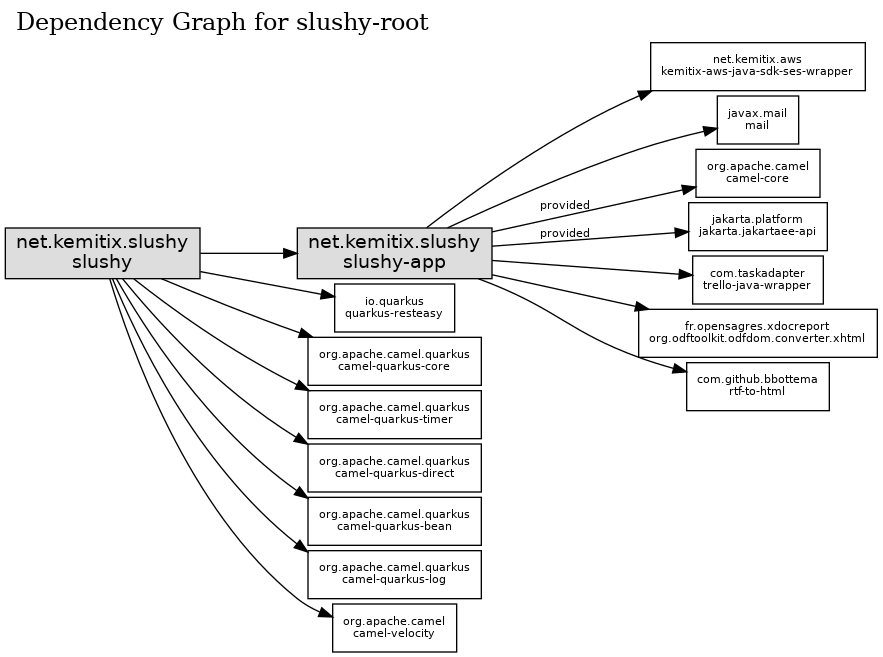
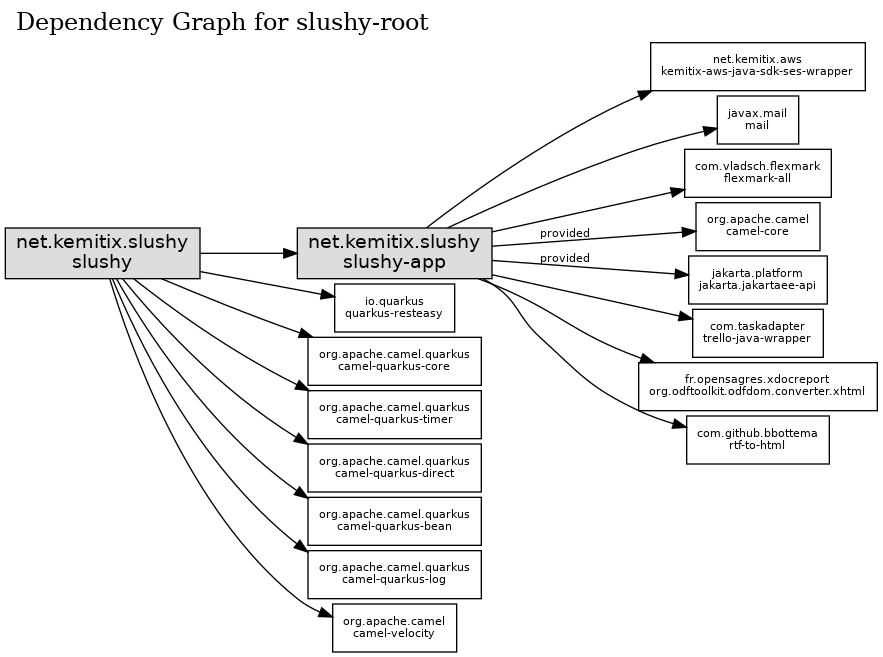
Add support for converting markdown attachments (#71)
* Add dependency flexmark-all 0.62.2

* Clean up pom

* Bump kemitix-maven-tiles from 2.9.0 to 2.10.0

* Update latest JDK test build from 14 to 15

* Add Markdown support

* Clean up HTML from RTF conversion

diff --git a/slushy-app/src/main/java/net/kemitix/slushy/app/fileconversion/MarkdownToHtmlConverter.java b/slushy-app/src/main/java/net/kemitix/slushy/app/fileconversion/MarkdownToHtmlConverter.java
@@ -1,0 +1,64 @@
+package net.kemitix.slushy.app.fileconversion;
+
+import com.vladsch.flexmark.html.HtmlRenderer;
+import com.vladsch.flexmark.parser.Parser;
+import com.vladsch.flexmark.util.data.MutableDataSet;
+import net.kemitix.slushy.app.Attachment;
+import net.kemitix.slushy.app.LocalAttachment;
+
+import javax.enterprise.context.ApplicationScoped;
+import javax.inject.Inject;
+import java.io.File;
+import java.io.FileNotFoundException;
+import java.io.IOException;
+import java.nio.file.Files;
+import java.util.Optional;
+import java.util.stream.Stream;
+
+import static java.nio.charset.StandardCharsets.UTF_8;
+
+@ApplicationScoped
+public class MarkdownToHtmlConverter
+        implements AttachmentConverter{
+
+    private final MutableDataSet dataSet = new MutableDataSet();
+    private final Parser parser = Parser.builder(dataSet).build();
+    private final HtmlRenderer renderer = HtmlRenderer.builder().build();
+
+    @Inject HtmlCleaner htmlCleaner;
+
+    @Override
+    public boolean canHandle(Attachment attachment) {
+        String filename =
+                attachment.getOriginalFilename()
+                        .getName()
+                        .toLowerCase();
+        return filename.endsWith(".md")
+                || filename.endsWith(".markdown");
+    }
+
+    @Override
+    public Optional<LocalAttachment> convert(File sourceFile, File targetFile) {
+        try {
+            String markdown = Files.readString(sourceFile.toPath(), UTF_8);
+            String html = String.format(
+                    "<html><title></title><body>%s</body></html>",
+                    htmlCleaner.clean(
+                            renderer.render(parser.parse(markdown))));
+            Files.writeString(targetFile.toPath(), html);
+            if (targetFile.exists()) {
+                return Optional.of(new LocalAttachment(targetFile, sourceFile));
+            } else {
+                throw new FileNotFoundException(targetFile.getAbsolutePath());
+            }
+        } catch (IOException e) {
+            e.printStackTrace();
+            return Optional.empty();
+        }
+    }
+
+    @Override
+    public Stream<String> canConvertFrom() {
+        return Stream.of("md");
+    }
+}

diff --git a/slushy-app/src/main/java/net/kemitix/slushy/app/fileconversion/RtfToHtmlAttachmentConverter.java b/slushy-app/src/main/java/net/kemitix/slushy/app/fileconversion/RtfToHtmlAttachmentConverter.java
@@ -19,14 +19,13 @@ public class RtfToHtmlAttachmentConverter
         implements AttachmentConverter{
 
     @Inject RTF2HTMLConverter converter;
+    @Inject HtmlCleaner htmlCleaner;
 
     @Override
     public boolean canHandle(Attachment attachment) {
-        String filename = attachment.getOriginalFilename()
+        return attachment.getOriginalFilename()
                 .getName()
-                .toLowerCase();
-        log.info("RTF can convert?: " + filename);
-        return filename
+                .toLowerCase()
                 .endsWith(".rtf");
     }
 
@@ -37,7 +36,7 @@ public class RtfToHtmlAttachmentConverter
     ) {
         try {
             String rtfString = Files.readString(sourceFile.toPath());
-            String html = converter.rtf2html(rtfString);
+            String html = htmlCleaner.clean(converter.rtf2html(rtfString));
             Files.writeString(targetFile.toPath(), html);
             return Optional.of(new LocalAttachment(targetFile, sourceFile));
         } catch (IOException e) {

diff --git a/slushy-app/src/main/java/net/kemitix/slushy/app/fileconversion/HtmlCleaner.java b/slushy-app/src/main/java/net/kemitix/slushy/app/fileconversion/HtmlCleaner.java
@@ -1,0 +1,18 @@
+package net.kemitix.slushy.app.fileconversion;
+
+import javax.enterprise.context.ApplicationScoped;
+
+@ApplicationScoped
+public class HtmlCleaner {
+
+    String clean(String in) {
+        return in
+                .replace("“", "&OpenCurlyDoubleQuote;")
+                .replace("”", "&CloseCurlyDoubleQuote;")
+                .replace("’", "&CloseCurlyQuote;")
+                .replace("—", "&mdash;")
+                .replace("–", "&ndash;")
+                ;
+    }
+
+}
